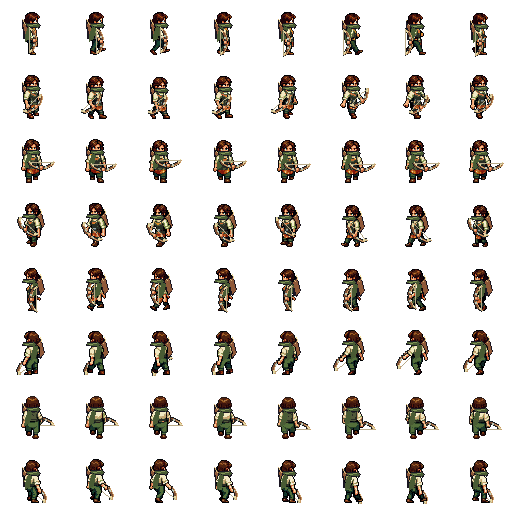
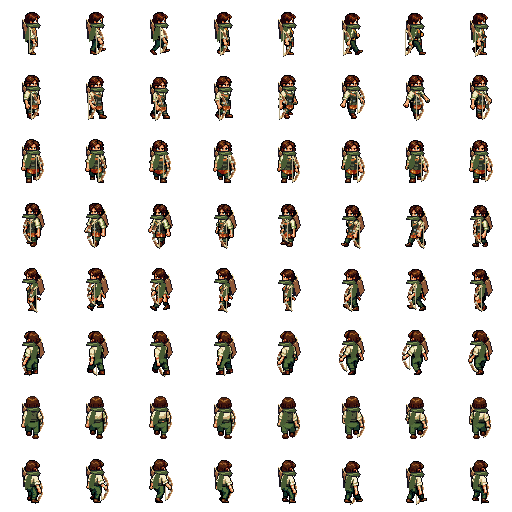
feat(art): remplacer le grimoire par la magie noire et naturaliser les armes

diff --git a/public/game/warlock-vfx.js b/public/game/warlock-vfx.js
@@ -1,0 +1,38 @@
+export function warlockAuraState(combat, now) {
+    const cast = combat.attackVisual;
+    if (combat.classKey !== 'warlock' || combat.health <= 0 || !cast?.ranged || now < cast.start) return null;
+    const release = cast.start + cast.castMs;
+    const end = Math.max(cast.end, release) + 420;
+    if (now >= end) return null;
+    return { strength: Math.min(1, (now - cast.start) / 120, (end - now) / 420),
+        release, still: !!combat.scene.motionPreference?.matches };
+}
+
+export function drawWarlockAura(combat, aura, now) {
+    const { x, y } = combat.scene.position;
+    const phase = aura.still ? .42 : (now % 1800) / 1800;
+    const intensity = aura.strength;
+    const g = combat.effect;
+    g.fillStyle(0x100b1c, .35 * intensity).fillEllipse(Math.round(x),Math.round(y-1),32,9);
+    combat.vfx?.play('summon',x,y-16,phase,.48,0,.34*intensity);
+    combat.vfx?.play('curse',x,y-15,aura.still ? .42 : (phase+.5)%1,.36,0,.38*intensity);
+    const facing = combat.scene.facing ?? 'south';
+    const hands = facing === 'east' ? [[-2,-13]] : facing === 'west' ? [[2,-13]]
+        : facing.startsWith('north') ? [] : [[-8,-13],[8,-13]];
+    for (const [index,[dx,dy]] of hands.entries()) {
+        combat.vfx?.play('chaos',x+dx,y+dy,aura.still ? .42 : (phase+index*.35)%1,.18,0,.85*intensity);
+    }
+    if (!aura.still) {
+        for (let i=0;i<8;i++) {
+            const life=(phase+i/8)%1;
+            const side=i%2 ? -1 : 1;
+            const px=Math.round(x+side*(14+Math.sin(life*Math.PI)*4));
+            const py=Math.round(y-3-life*40);
+            const alpha=Math.sin(life*Math.PI)*intensity;
+            g.fillStyle(0x21152d,alpha*.65).fillRect(px-1,py,3,5);
+            g.fillStyle(i%3 ? 0x9863bb : 0x8fb7a7,alpha*.65).fillRect(px,py,1,2);
+        }
+    }
+    const burst = (now-aura.release)/210;
+    if (burst>=0 && burst<1) combat.vfx?.play('chaos',x,y-16,aura.still ? .42 : burst,.48,0,(1-burst)*.7*intensity);
+}

diff --git a/public/game/combat.js b/public/game/combat.js
@@ -618,7 +618,7 @@ export class TrainingCombat {
                 this.pending = this.attackVisual = {
                     kind: 'classCast', talent, target, manaCost, cdMs, angle,
                     damage: this.stats.specialDamage * berserkMult, ranged: true, facing: this.scene.facing,
-                    weaponStyle: 'grimoire', name: talent.name, start: now, end: now + technique.castMs,
+                    weaponStyle: this.weaponStyle, name: talent.name, start: now, end: now + technique.castMs,
                     castMs: technique.castMs, nextPulse: now + (technique.channel ?? technique.castMs), interruptible: true,
                 };
                 this.refreshCastBar(now);
@@ -842,7 +842,7 @@ export class TrainingCombat {
             start: now,
             end: now + durationMs,
         });
-        if (slotKey !== 'basic' && slotKey !== 'special') {
+        if (slotKey !== 'basic' && slotKey !== 'special' && this.pending?.kind !== 'classCast') {
             this.attackVisual = {
                 start: now, end: now + 210, castMs: 180,
                 ranged: this.ranged, facing: this.scene.facing,
@@ -1119,7 +1119,7 @@ export class TrainingCombat {
     get weaponStyle() {
         if (!this.equipped) return 'fist';
         if (this.progress.weapon === 'axe') return 'axe';
-        return { warrior: 'sword', rogue: 'daggers', hunter: 'bow', warlock: 'grimoire', mage: 'wand' }[this.classKey];
+        return { warrior: 'sword', rogue: 'daggers', hunter: 'bow', warlock: 'shadow', mage: 'wand' }[this.classKey];
     }
 
     get weaponBonus() {

diff --git a/public/game/combat-renderer.js b/public/game/combat-renderer.js
@@ -1,5 +1,6 @@
 import { drawInfernoBeam } from './combat-vfx.js';
 import { bowGrip } from './equipped-art.js';
+import { warlockAuraState, drawWarlockAura } from './warlock-vfx.js';
 import { malakorIgnitionMs, malakorRageProgress, malakorSurgeMs, malakorWave, malakorWaveImpactMs } from './malakor.js';
 
 export const impactMs = 210;
@@ -19,17 +20,19 @@ const sparks = [
 export function drawEffectsView(combat, now) {
     combat.vfx?.begin();
     combat.rageEffect?.clear();
+    const darkAura = warlockAuraState(combat,now);
     const enemyAttacking = combat.monsters.some((monster) => monster.isAlive && (
         (monster.isBoss && (monster.phase === 3 || monster.trial || monster.echo))
         || (monster.attackVisual && (monster.attackVisual.projectile || now < monster.attackVisual.end + recoveryMs))
     ));
     combat.spellEffects = (combat.spellEffects ?? []).filter((fx) => now - fx.start < fx.duration);
-    if (!combat.pending && !combat.recovery && combat.impacts.length === 0 && combat.spellEffects.length === 0 && !enemyAttacking) {
+    if (!combat.pending && !combat.recovery && combat.impacts.length === 0 && combat.spellEffects.length === 0 && !enemyAttacking && !darkAura) {
         combat.effect.clear();
         return;
     }
 
     combat.effect.clear();
+    if (darkAura) drawWarlockAura(combat,darkAura,now);
     combat.drawMonsterAttacks(now);
     combat.drawSpellEffects(now);
     combat.impacts = combat.impacts.filter((hit) => now - hit.start < impactMs);

diff --git a/public/game/equipped-art.js b/public/game/equipped-art.js
@@ -1,4 +1,4 @@
-export const equippedWeaponStyles = { hunter: 'bow', rogue: 'daggers', warlock: 'grimoire' };
+export const equippedWeaponStyles = { hunter: 'bow', rogue: 'daggers', warlock: 'shadow' };
 
 export function bowGrip(position, facing) {
     const index = ['east','south-east','south','south-west','west','north-west','north','north-east'].indexOf(facing);

diff --git a/tools/build_equipped_sprites.php b/tools/build_equipped_sprites.php
@@ -79,7 +79,7 @@ function bow(GdImage $im, array $grip, array $aim, float $draw, bool $arrow): ar
     $limbs = [[-5,-12],[-2,-10],[0,-6],[1,-3],[0,0],[1,3],[0,6],[-2,10],[-5,12]];
     for ($i = 1; $i < count($limbs); $i++) {
         $a = $point(...$limbs[$i - 1]); $b = $point(...$limbs[$i]);
-        stroke($im, $a, $b, OUTLINE, 4);
+        stroke($im, $a, $b, OUTLINE, 3);
         stroke($im, $a, $b, 0x805034, 2);
         stroke($im, [$a[0] + 1, $a[1]], [$b[0] + 1, $b[1]], 0xcb9d68);
     }
@@ -104,48 +104,16 @@ function bow(GdImage $im, array $grip, array $aim, float $draw, bool $arrow): ar
 function dagger(GdImage $im, array $grip, float $angle): void
 {
     $dx = cos($angle); $dy = sin($angle);
-    $p = static fn ($f, $t) => [$grip[0] + $dx * $f - $dy * $t, $grip[1] + $dy * $f + $dx * $t];
+    $p = static function ($f, $t) use ($grip, $dx, $dy) {
+        $f = $f > 2 ? 2 + ($f - 2) * .68 : $f;
+        return [$grip[0] + $dx * $f - $dy * $t, $grip[1] + $dy * $f + $dx * $t];
+    };
     poly($im, [...$p(-3,-1),...$p(2,-2),...$p(12,-1),...$p(15,0),...$p(10,3),...$p(2,2),...$p(-3,1)], OUTLINE);
     poly($im, [...$p(3,-1),...$p(13,0),...$p(9,2),...$p(3,1)], 0x8ba7b0);
     stroke($im, $p(3,-1), $p(12,0), 0xe0e6d9);
     stroke($im, $p(1,-3), $p(1,3), 0xb89259);
     stroke($im, $p(-2,0), $p(1,0), 0x79513f, 2);
     imagesetpixel($im, (int) round($p(2,0)[0]), (int) round($p(2,0)[1]), 0x8ac0bd);
-}
-
-function book(GdImage $im, array $left, array $right, int $pose): void
-{
-    if ($pose < 0) {
-        [$x,$y] = $left;
-        poly($im, [$x-2,$y-12,$x+8,$y-14,$x+10,$y-12,$x+10,$y-1,$x,$y+1,$x-2,$y-1], OUTLINE);
-        poly($im, [$x,$y-11,$x+8,$y-12,$x+9,$y-11,$x+9,$y-2,$x+1,$y], 0x76445f);
-        stroke($im, [$x+1,$y-10], [$x+7,$y-11], 0xbe9a61);
-        stroke($im, [$x+1,$y-1], [$x+8,$y-3], 0xc5af87);
-        stroke($im, [$x+1,$y-11], [$x+1,$y-2], 0x4a2c44);
-        poly($im, [$x+5,$y-9,$x+7,$y-6,$x+5,$y-4,$x+3,$y-6], 0xdbbc79);
-        imagesetpixel($im, (int) round($x+5), (int) round($y-6), 0xb2cfbf);
-        return;
-    }
-    $cx = ($left[0] + $right[0]) / 2;
-    $y = max($left[1], $right[1]);
-    $w = max(7, min(11, ($right[0] - $left[0]) / 2));
-    poly($im, [$cx-$w-1,$y-9,$cx,$y-7,$cx+$w+1,$y-10,$cx+$w+1,$y,$cx,$y+2,$cx-$w-1,$y], OUTLINE);
-    poly($im, [$cx-$w,$y-8,$cx,$y-6,$cx+$w,$y-9,$cx+$w,$y-1,$cx,$y+1,$cx-$w,$y-1], 0x643b55);
-    poly($im, [$cx-$w+1,$y-8,$cx,$y-6,$cx+$w-1,$y-9,$cx+$w-1,$y-2,$cx,$y,$cx-$w+1,$y-2], 0xd5bb87);
-    stroke($im, [$cx-$w+2,$y-7], [$cx-1,$y-5], 0xf0dfb0);
-    stroke($im, [$cx+1,$y-6], [$cx+$w-2,$y-8], 0xf0dfb0);
-    stroke($im, [$cx,$y-6], [$cx,$y], 0x855c48);
-    foreach ([-1,1] as $side) {
-        for ($line = 0; $line < 3; $line++) stroke($im, [$cx+$side*3,$y-4+$line*2], [$cx+$side*($w-2),$y-5+$line*2], 0x956957);
-        imagesetpixel($im, (int) round($cx+$side*$w), (int) round($y-1), 0xe1b85c);
-    }
-    // Le feuillet tourne, le livre reste posé sur les deux paumes.
-    if ($pose >= 1 && $pose <= 6) {
-        $turn = [0,6,4,1,-2,-5,-7][$pose];
-        poly($im, [$cx,$y-7,$cx+$turn,$y-11,$cx+$turn,$y-4,$cx,$y], 0xf1dfb0);
-        stroke($im, [$cx,$y-7], [$cx+$turn,$y-11], 0xb09c78);
-        imagesetpixel($im, (int) $cx + 2, (int) $y - 4, 0xe3a2e1);
-    }
 }
 
 function equipped(GdImage $body, string $skin, int $direction, int $pose, int $foot): GdImage
@@ -171,27 +139,30 @@ function equipped(GdImage $body, string $skin, int $direction, int $pose, int $f
             $draw = [0,2,4,5,0,.5,0,0,0][$pose];
             $pull = bow($gear, $grip, $aim, $draw, $pose < 4);
             $shoulder = [$center + ($aim[0] < 0 ? 5 : -5), $foot - 25];
-            arm($gear, $shoulder, [$center - $aim[0] * 4, $foot - 19], $pull);
-            arm($gear, [$center + ($aim[0] < 0 ? -5 : 5), $foot - 25], [$center + $aim[0] * 6, $foot - 19], $grip);
+            arm($gear, $shoulder, [$center - $aim[0] * 7, $foot - 24], $pull);
+            arm($gear, [$center + ($aim[0] < 0 ? -5 : 5), $foot - 25], [$center + $aim[0] * 8, $foot - 24 + $aim[1] * 5], $grip);
             palm($gear, $pull);
-        } else bow($gear, $grip, $aim, 0, false);
-        palm($gear, $grip);
+        } else bow($gear, $grip, [$aim[0] < -.3 ? -1 : 1, 0], 0, false);
+        if ($pose>=0) palm($gear, $grip);
     } elseif ($skin === 'rogue') {
-        $swing = $pose < 0 ? 0 : [-.1,-.3,-.55,-.3,.25,.65,.35,.1,0][$pose];
-        if ($left) { dagger($gear, $left, $direction * M_PI / 4 + .9 - $swing); palm($gear, $left); }
-        if ($right) { dagger($gear, $right, $direction * M_PI / 4 + .4 + $swing); palm($gear, $right); }
-    } else {
-        $support = $left ?? $right;
-        if (!$support && $back) return $body;
-        if (!$support) throw new RuntimeException('Main du Démoniste introuvable.');
-        book($gear, $support, $right ?? $support, $pose);
-        if ($left) palm($gear, $left);
-        if ($right && $pose >= 0) palm($gear, $right);
+        $reach = $pose < 0 ? 0 : [0,.2,.5,.8,1,.85,.5,.2,0][$pose];
+        foreach ([[$left,M_PI/2+.22],[$right,M_PI/2-.22]] as [$grip,$restAngle]) {
+            if (!$grip) continue;
+            $delta = $direction*M_PI/4 - $restAngle;
+            $angle = $restAngle + atan2(sin($delta),cos($delta)) * $reach;
+            dagger($gear,$grip,$angle);
+        }
     }
     imagealphablending($out, true);
     if ($back) imagecopy($out, $gear, 0,0,0,0,imagesx($out),imagesy($out));
     imagecopy($out, $body, 0,0,0,0,imagesx($out),imagesy($out));
     if (!$back) imagecopy($out, $gear, 0,0,0,0,imagesx($out),imagesy($out));
+    if ($skin==='rogue' || ($skin==='hunter' && $pose<0)) {
+        foreach (array_filter([$left,$right]) as [$hx,$hy]) {
+            $hx=(int)round($hx)-2; $hy=(int)round($hy)-2;
+            imagecopy($out,$body,$hx,$hy,$hx,$hy,5,5);
+        }
+    }
     // La tête et le col passent devant une extrémité d'arme qui les croise.
     imagecopy($out,$body,0,0,0,0,imagesx($body),$foot-27);
     for ($y = 0; $y < imagesy($out); $y++) for ($x = 0; $x < imagesx($out); $x++) {
@@ -244,3 +215,13 @@ foreach (['hunter','rogue','warlock'] as $skin) {
     }
 }
 echo in_array('--check', $argv, true) ? "Planches équipées vérifiées.\n" : "Planches équipées générées pour Chasseur, Voleur et Démoniste.\n";
+
+if (!in_array('--check',$argv,true)) {
+    $icon=canvas(40,32);
+    foreach ([[11,0x23152f],[8,0x4a285e],[5,0x925bba],[2,0xd8b4e9]] as [$radius,$color]) {
+        poly($icon,[20,16-$radius,20+$radius,16,20,16+$radius,20-$radius,16],$color);
+    }
+    stroke($icon,[10,21],[27,8],0x7b9f95);
+    stroke($icon,[12,23],[29,10],0xc9e0b9);
+    imagepng($icon,ART.'/items/shadow-focus.png',9);
+}

diff --git a/src/Controller/CharacterController.php b/src/Controller/CharacterController.php
@@ -131,7 +131,7 @@ final class CharacterController extends AbstractController
         [$basic, $special, $weapon, $basicIcon, $specialIcon, $rareName, $epicName, $rareIcon, $epicIcon, $usage] = match ($class) {
             CharacterClass::Warrior => ['Coup d’épée', 'Attaque chargée', 'Épée de fer', 'sword', 'charge', 'Lame des saules', 'Croc de Saphyr', 'blade', 'fang', 'Corps à corps'],
             CharacterClass::Mage => ['Trait arcanique', 'Boule de feu', 'Baguette de braise', 'bolt', 'fire', 'Bâton des saules', 'Sceptre de Saphyr', 'staff', 'wand', 'Corps à corps'],
-            CharacterClass::Warlock => ['Trait d’ombre', 'Corruption', 'Grimoire de cendres', 'bolt', 'rune', 'Codex des saules', 'Codex de Saphyr', 'grimoire', 'grimoire', 'Grimoire · à distance'],
+            CharacterClass::Warlock => ['Trait d’ombre', 'Corruption', 'Essence de cendres', 'bolt', 'rune', 'Sceau des saules', 'Sceau de Saphyr', 'shadow-focus', 'shadow-focus', 'Focalisation d’ombre · à distance'],
             CharacterClass::Rogue => ['Coup de dague', 'Entaille venimeuse', 'Dagues de fer', 'sword', 'charge', 'Dagues des saules', 'Dagues de Saphyr', 'daggers', 'daggers', 'Dagues · corps à corps'],
             CharacterClass::Hunter => ['Flèche rapide', 'Tir perforant', 'Arc de frêne', 'bolt', 'charge', 'Arc des saules', 'Arc de Saphyr', 'bow', 'bow', 'Arc · à distance'],
         };

diff --git a/tests/warlock_art.php b/tests/warlock_art.php
@@ -1,0 +1,21 @@
+<?php
+declare(strict_types=1);
+$root=__DIR__.'/../public/game/val-des-saules/warlock/';
+$equipped=imagecreatefrompng($root.'idle-equipped.png');
+foreach (['east','south-east','south','south-west','west','north-west','north','north-east'] as $row=>$direction) {
+    $source=imagecreatefrompng($root.$direction.'.png');
+    imagepalettetotruecolor($source);
+    $bottom=47;
+    while ($bottom>0) {
+        for ($x=0;$x<48;$x++) if ((imagecolorat($source,$x,$bottom)>>24&127)<75) break 2;
+        $bottom--;
+    }
+    for ($y=0;$y<64;$y++) for ($x=0;$x<64;$x++) {
+        $sx=$x-8; $sy=$y-54+$bottom;
+        $expected=$sx>=0 && $sx<48 && $sy>=0 && $sy<48 ? imagecolorat($source,$sx,$sy) : 0x7f000000;
+        $actual=imagecolorat($equipped,$row*64+$x,$y);
+        if (($expected>>24&127)===127 && ($actual>>24&127)===127) continue;
+        if ($expected!==$actual) throw new RuntimeException("Objet ajouté au Démoniste : $direction ($x,$y).");
+    }
+}
+echo "Démoniste sans objet visible, personnage préservé dans huit directions.\n";

diff --git a/tests/account_flow.php b/tests/account_flow.php
@@ -178,6 +178,7 @@ try {
         check(substr_count($game->getContent(), 'data-pet-action=') === ($class === 'rogue' ? 0 : 3), 'Chasseur et Démoniste ont trois commandes dédiées de familier.');
         if ($class === 'hunter') check($rules['resourceName'] === 'Mana' && $rules['range'] == 7.0, 'Le Chasseur utilise le Mana à 7 cases.');
         if ($class === 'warlock') check($rules['specialCastMs'] === 750 && $rules['range'] == 5.0, 'Le Démoniste incante Corruption à 5 cases.');
+        if ($class === 'warlock') check($rules['weaponName'] === 'Essence de cendres' && !str_contains(strtolower($game->getContent()), 'grimoire'), 'Le Démoniste utilise une focalisation d’ombre sans grimoire affiché.');
     }
 
     $progressPath = $warriorRules['progressUrl'];

diff --git a/docs/REFONTE-CLASSES-MONDE.md b/docs/REFONTE-CLASSES-MONDE.md
@@ -8,7 +8,7 @@ Cadrage du 20 novembre 2026, validé par l’utilisateur. Livrés sur la branche
 
 Le lot suivant ajoute l’apprivoisement, l’héritage des statistiques des familiers, la barre W/X/C et la fiche P. La créature apprivoisée est sauvegardée localement ; sa persistance serveur reste liée au futur profil complet.
 
-Le lot armes remplace les objets séparés des trois nouvelles classes par neuf planches équipées, avec arc retravaillé et prise à deux mains, dagues tenues et livre animé. Les visages, cheveux et apparences sources sont conservés. Le départ de la flèche est synchronisé à la poignée et à la décoche. Les planches et le passage équipé/mains nues ont été vérifiés dans le moteur.
+Le lot armes remplace les objets séparés des nouvelles classes. À la demande de révision visuelle, l’arc se porte verticalement au repos, les dagues sont raccourcies et le livre du Démoniste est supprimé. Sa magie est représentée par une aura sombre et violette, des volutes et une libération d’énergie. Les visages, cheveux et apparences sources sont conservés. Le départ de la flèche reste synchronisé à la poignée et à la décoche.
 
 Restent notamment : calibration des monstres, des ressources et des familiers, validation du temps de progression vers N.60, persistance du profil complet et monde partagé Symfony.
 
@@ -16,7 +16,7 @@ Des armes tenues correctement dans les animations, un début de jeu où les ress
 
 ## 1. Sprites et caméra
 
-Régénérer les planches de classes avec une prise en main cohérente de l’arc, des dagues et du grimoire, dans chaque direction et pour chaque phase de marche/attaque. Les armes doivent suivre les mains et passer devant ou derrière le corps selon la pose, avec des pivots propres à l’objet. Vérifier les planches en mouvement, pas seulement une image immobile. Préserver les identités visuelles des personnages déjà appréciés et la cohérence PixelLab des décors.
+Régénérer les planches de classes avec une prise en main cohérente de l’arc et des dagues dans chaque direction. Pour le Démoniste, représenter directement la magie noire autour du personnage, sans livre visible. Vérifier le mouvement et les effets en jeu. Préserver les identités visuelles des personnages déjà appréciés et la cohérence PixelLab des décors.
 
 Proposition : zoom par défaut ×2, pixels nets et caméra toujours bornée au monde. Le réglage actuel est dans `public/game/exploration.js`, fonction `cameraZoom`, ligne 52 au commit examiné. `public/game/world.js:104` l’applique avec `cam.setZoom(...)`.
 

diff --git a/docs/VFX.md b/docs/VFX.md
@@ -12,7 +12,7 @@ Les VFX de combat indiquent la préparation, la trajectoire, l’impact et la di
 | Voleur | Croissants d’acier et d’ombre pour les dagues, éclats verts pour le poison et la rupture. |
 | Chasseur | Flèche dorée et traînée verte, éclats au point d’impact, volée et pointes de piège. Le familier apprivoisé réutilise les huit directions et les poses de la créature sauvage, sans ses attaques spéciales. |
 
-Les corps du Guerrier, du Démoniste, du Voleur et du Chasseur ont huit directions, huit images de marche et neuf images d’attaque par direction. Le Chasseur, le Voleur et le Démoniste utilisent des planches équipées : arc à deux mains, dagues d’acier et grimoire relié sont composés avec le corps, avec occultation derrière le personnage selon la direction. Le Chasseur tend la corde puis décoche ; la flèche de VFX n’apparaît qu’à la libération et part de la poignée. Le grimoire s’ouvre et ses pages tournent pendant l’incantation. Les objets séparés restent utilisés pour les armes et le bouclier du Guerrier. Les démons familiers ont six poses de 32 × 32 px ; les créatures apprivoisées réutilisent leurs propres planches. [Rendu des avatars](../public/game/world.js) · [Techniques et familiers](../public/game/class-combat.js)
+Les corps du Guerrier, du Démoniste, du Voleur et du Chasseur ont huit directions, huit images de marche et neuf images d’attaque par direction. L’arc et les dagues sont composés dans les planches du personnage, avec occultation selon la direction. L’arc se porte verticalement au repos, les dagues courtes pointent vers le sol. La flèche de VFX n’apparaît qu’à la libération et part de la poignée. Le Démoniste garde son corps d’origine sans grimoire : `warlock-vfx.js` combine les animations de volutes `summon`, les sceaux `curse`, l’énergie `chaos` et de petits fragments noirs/violets. L’aura accompagne uniquement ses sorts puis se dissipe ; les formes sont fixes et les fragments masqués avec mouvement réduit. Les objets séparés restent utilisés pour les armes et le bouclier du Guerrier. Les démons familiers ont six poses de 32 × 32 px ; les créatures apprivoisées réutilisent leurs propres planches. [Rendu des avatars](../public/game/world.js) · [Techniques et familiers](../public/game/class-combat.js)
 
 ## Malakor et les faisceaux de lave
 

diff --git a/docs/FRONTEND.md b/docs/FRONTEND.md
@@ -32,7 +32,9 @@ Les lanternes, la cabane et les fissures fournissent les sources fixes. Le perso
 
 ## Combat, équipement et animations
 
-Pour `hunter`, `rogue` et `warlock`, `idle-equipped.png`, `walk-equipped.png` et `attack-equipped.png` intègrent l’arme au personnage. Cellules de 64 × 64 px : repos 512 × 64, marche 512 × 512, attaque 576 × 512. Les pieds sont alignés à y=54 et l’origine Phaser vaut 56/64 ; passer du repos à la marche ou au tir ne fait pas sauter le personnage. À mains nues, les planches originales sont utilisées et aucun ancien sprite d’arme séparé n’est dessiné pour ces trois classes.
+Pour `hunter` et `rogue`, `idle-equipped.png`, `walk-equipped.png` et `attack-equipped.png` intègrent l’arme au personnage. Les fichiers de `warlock` contiennent désormais le corps sans livre. Cellules de 64 × 64 px : repos 512 × 64, marche 512 × 512, attaque 576 × 512. Les pieds sont alignés à y=54 et l’origine Phaser vaut 56/64 ; passer du repos à la marche ou au tir ne fait pas sauter le personnage. À mains nues, les planches originales sont utilisées et aucun ancien sprite d’arme séparé n’est dessiné pour ces trois classes.
+
+Le style du Démoniste est `shadow`. `warlock-vfx.js` calcule l’enveloppe de son aura depuis `attackVisual`, y compris sa dissipation après résolution lorsque `pending` est vide. `combat-renderer.js` maintient ce rendu pendant la queue visuelle sans toucher au calcul des dégâts ou de la ressource. Le mouvement réduit fixe la pose des textures et supprime les fragments. `php tests/warlock_art.php` vérifie que les huit poses au repos correspondent pixel par pixel au corps d’origine sans objet ajouté.
 
 `tools/build_equipped_sprites.php` compose les neuf planches à partir des corps existants, sans réécrire ces sources. Après régénération des corps via `tools/build_class_sprites.php`, lancer `php tools/build_equipped_sprites.php`. `php tools/build_equipped_sprites.php --check` vérifie leur reproductibilité pixel par pixel, la préservation du visage et des cheveux et l’absence d’arme coupée sur les bords. `equipped-art.js` donne la prise de l’arc au combat et aux VFX pour éviter un décalage entre la corde et le projectile.
 
